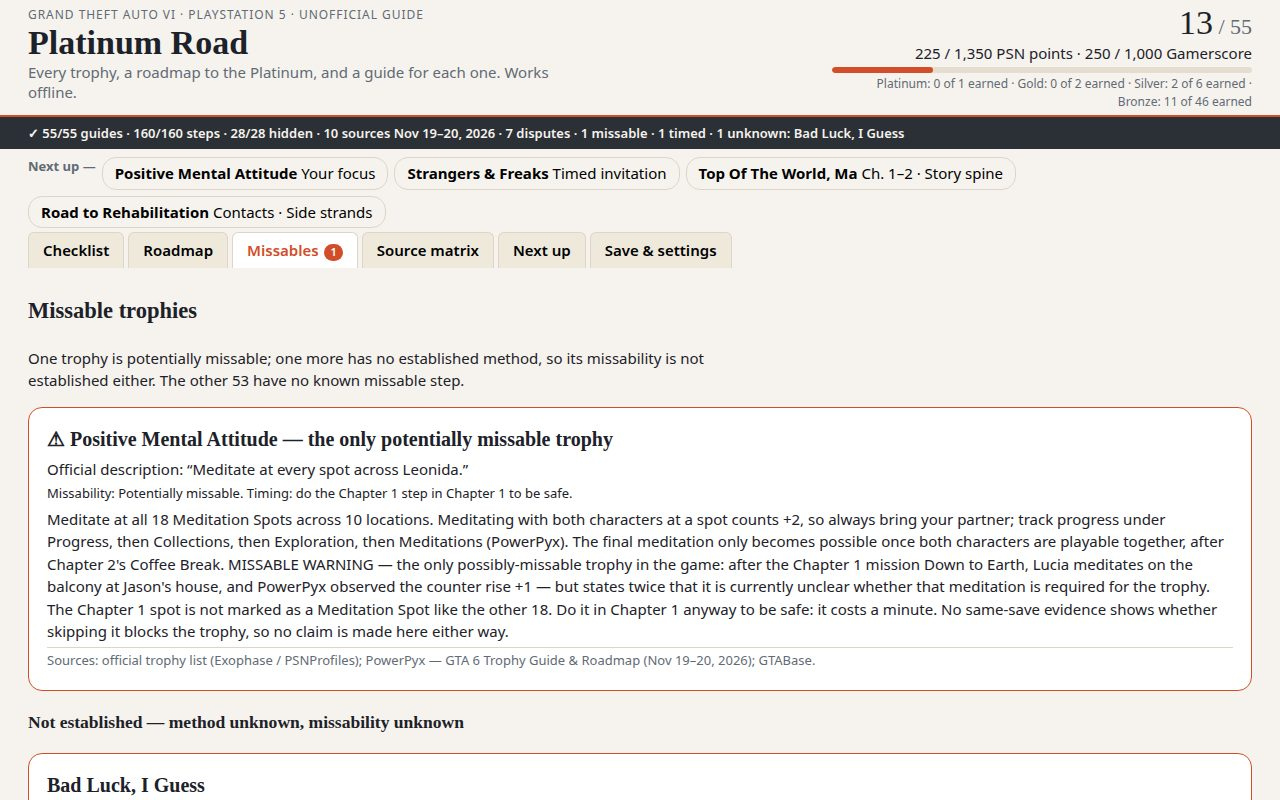
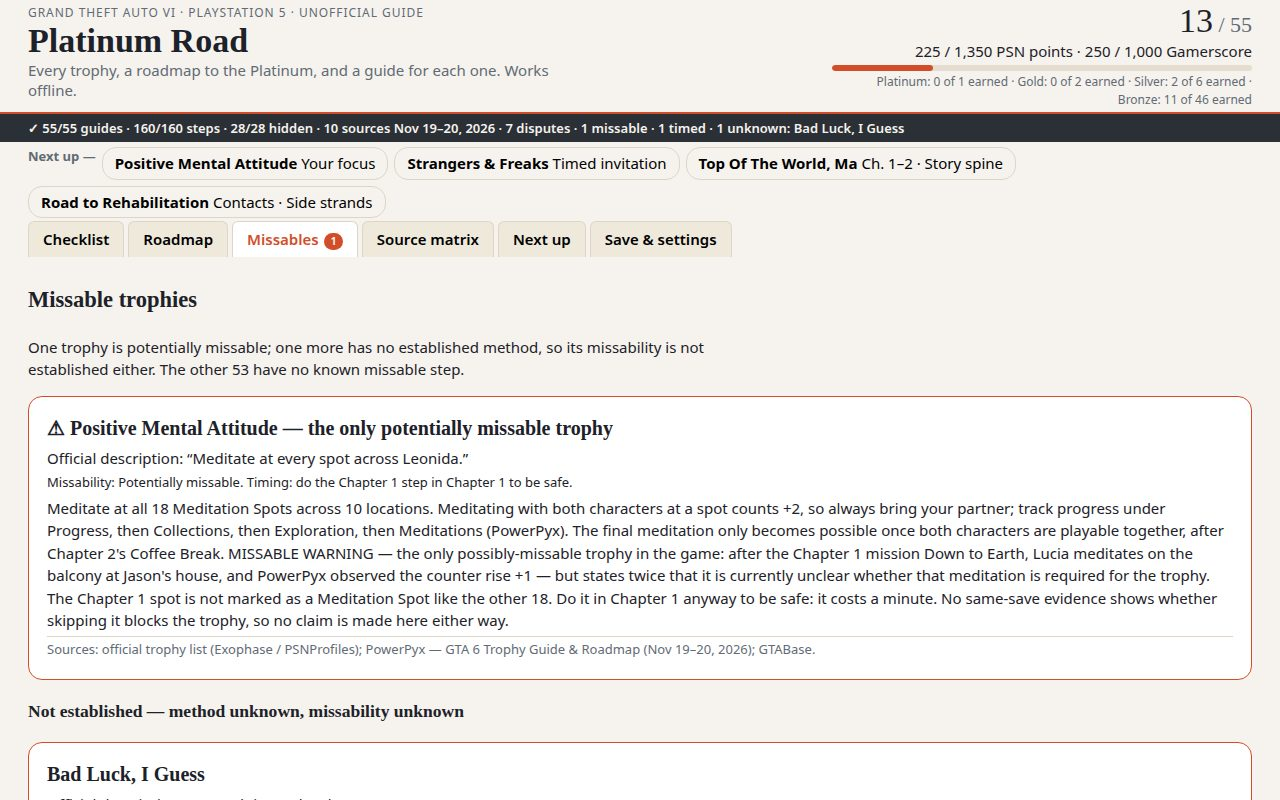
Platinum Road v4 fix: whole SOURCES DIFFER box fits the 800px cover

Changed region(s): [[0.0, 0.0, 1.0, 1.0], [0.4062, 0.2812, 0.5625, 0.3438], [0.25, 0.0625, 0.4375, 0.0938]]

diff --git a/app/style.css b/app/style.css
@@ -3,7 +3,7 @@ body{font-family:system-ui,sans-serif;margin:0;background:#f6f3ee;color:#1d2129;
 h1,h2,h3{font-family:Georgia,serif}
 a{color:#d24e2a}
 button{font:inherit;cursor:pointer}
-.site-header{display:flex;justify-content:space-between;gap:24px;flex-wrap:wrap;padding:6px 28px 4px;border-bottom:2px solid #d24e2a}
+.site-header{display:flex;justify-content:space-between;gap:24px;flex-wrap:wrap;padding:4px 28px 3px;border-bottom:2px solid #d24e2a}
 .eyebrow{margin:0 0 2px;font-size:12px;letter-spacing:.08em;text-transform:uppercase;color:#626a75}
 .site-header h1{margin:0;font-size:34px;line-height:1}
 .subtitle{margin:2px 0 0;max-width:560px;color:#626a75;line-height:1.35}
@@ -14,13 +14,13 @@ button{font:inherit;cursor:pointer}
 .progress-line.small{font-size:12px;color:#626a75}
 .progress-bar{height:6px;background:#e5ded0;border-radius:6px;margin-top:2px;overflow:hidden}
 .progress-fill{height:100%;width:0;background:#d24e2a;border-radius:6px}
-.audit{margin:0;padding:7px 28px 6px;background:#2b2f36;color:#f6f3ee;font-size:13px;font-weight:600;position:sticky;top:0;z-index:5;white-space:nowrap;overflow:hidden;text-overflow:ellipsis}
-.stages{display:flex;gap:6px;flex-wrap:wrap;padding:8px 28px 0}
-.tabs{display:flex;gap:4px;padding:4px 28px 0;flex-wrap:wrap}
+.audit{margin:0;padding:5px 28px 4px;background:#2b2f36;color:#f6f3ee;font-size:13px;font-weight:600;position:sticky;top:0;z-index:5;white-space:nowrap;overflow:hidden;text-overflow:ellipsis}
+.stages{display:flex;gap:6px;flex-wrap:wrap;padding:5px 28px 0}
+.tabs{display:flex;gap:4px;padding:3px 28px 0;flex-wrap:wrap}
 .tab{border:1px solid #ddd5c8;border-bottom:none;background:#efe9dc;padding:6px 14px;border-radius:6px 6px 0 0;font-weight:600}
 .tab.active{background:#fff;color:#d24e2a}
 .tab-badge{display:inline-block;background:#d24e2a;color:#fff;border-radius:10px;font-size:11px;padding:0 6px;margin-left:2px}
-.controls{display:flex;gap:6px;align-items:center;flex-wrap:wrap;padding:6px 28px;background:#fff;border-top:1px solid #ddd5c8;border-bottom:1px solid #ddd5c8}
+.controls{display:flex;gap:6px;align-items:center;flex-wrap:wrap;padding:5px 28px;background:#fff;border-top:1px solid #ddd5c8;border-bottom:1px solid #ddd5c8}
 .search-label input,.grade-label select{font:inherit;padding:4px 8px;border:1px solid #ddd5c8;border-radius:6px;background:#fff}
 .search-label input{width:240px}
 .kind-filters{display:flex;gap:6px;flex-wrap:wrap;align-items:center}
@@ -31,7 +31,7 @@ button{font:inherit;cursor:pointer}
 .control-buttons{display:flex;gap:8px;margin-left:auto}
 .control-buttons button,.import-btn,.save-panel button{border:1px solid #d24e2a;background:#fff;color:#d24e2a;border-radius:6px;padding:4px 12px;font-weight:600}
 .import-btn input{display:none}
-.filter-note{margin:4px 28px 0;color:#626a75;font-size:13px;min-height:18px}
+.filter-note{margin:2px 28px 0;color:#626a75;font-size:13px;min-height:16px}
 main{padding:8px 28px 28px}
 .view.hidden{display:none}
 .checklist-layout{display:grid;grid-template-columns:minmax(0,1fr) 430px;gap:20px;align-items:start}
@@ -60,25 +60,25 @@ main{padding:8px 28px 28px}
 .guide-pane .official-desc{color:#626a75;font-style:italic;margin:0 0 2px}
 .guide-pane h3{margin:2px 0 2px;font-size:15px}
 .guide-pane p{margin:0 0 2px}
-.guide-lead{font-size:17px;font-weight:700;margin:0 0 4px;line-height:1.35}
+.guide-lead{font-size:17px;font-weight:700;margin:0 0 4px;line-height:1.3}
 .chapter-head{margin:14px 0 2px;font-size:17px}
 .sources{font-size:13px;color:#626a75;border-top:1px solid #ddd5c8;padding-top:3px}
 .sources a{color:#626a75}
-.verification-note{font-size:13px;background:#fbe9e2;border-radius:6px;padding:8px 10px}
+.verification-note{font-size:13px;line-height:1.35;background:#fbe9e2;border-radius:6px;padding:5px 10px}
 .verification-note.unconfirmed{background:#fff4d6}
 .empty-pane{color:#626a75}
 .steps{margin:4px 0 2px;padding-left:22px;font-size:14.5px}
 .steps li{margin-bottom:3px}
 .step-src{font-size:12px;font-weight:700;color:#d24e2a;white-space:nowrap}
 .nosteps{font-size:14px;background:#fff4d6;border-radius:6px;padding:8px 10px}
-.dispute{border:1px solid #5b7a99;border-radius:10px;padding:8px 12px;margin:8px 0;background:#eef3fb}
-.dispute h3{margin:0 0 4px;font-size:14px;color:#33506b}
-.dispute p{font-size:13.5px;margin:2px 0}
-.counter-box{border:1px solid #ddd5c8;border-radius:10px;padding:3px 12px;margin:3px 0;background:#fdfcf9}
+.dispute{border:1px solid #5b7a99;border-radius:10px;padding:5px 10px;margin:4px 0;background:#eef3fb}
+.dispute h3{margin:0 0 2px;font-size:14px;color:#33506b}
+.dispute p{font-size:12.5px;line-height:1.4;margin:1px 0}
+.counter-box{border:1px solid #ddd5c8;border-radius:10px;padding:2px 10px;margin:3px 0;background:#fdfcf9}
 .counter-box .counter-line{display:flex;gap:8px;align-items:center;flex-wrap:wrap;font-weight:700;font-size:20px}
 .counter-box button{border:1px solid #d24e2a;background:#fff;color:#d24e2a;border-radius:6px;padding:2px 12px;font-weight:700;font-size:20px}
 .counter-box input{font:inherit;font-weight:700;width:84px;padding:2px 6px;border:1px solid #ddd5c8;border-radius:6px;text-align:right}
-.counter-src{font-size:13px;color:#626a75;margin:2px 0 0}
+.counter-src{font-size:12.5px;line-height:1.35;color:#626a75;margin:1px 0 0}
 .condition-box{border:1px solid #ddd5c8;border-radius:10px;padding:10px 12px;margin:10px 0;background:#fdfcf9}
 .condition-box p{margin:0}
 .note-box textarea{width:100%;min-height:36px;font:inherit;padding:8px;border:1px solid #ddd5c8;border-radius:8px;background:#fff;resize:vertical}

diff --git a/main.ts b/main.ts
@@ -5,7 +5,7 @@
 // screenshots, the first load's files and bytes, and your source), with the vendored make.fun library. Leave
 // vendor/makefun-frontend.ts as it is: the scorer requires dossier.json to be byte for byte what its own copy writes.
 //
-// Platinum Road v4 — presentation redesign on the v3 guide (dossier first-load: 12,451 bytes gzip-9 against the 12,500 cap in v3; v4 keeps the shell lean by restyling, not adding): light judged cover with the Positive Mental Attitude detail filled, a one-line audit, a bold lead + big count stepper + two colour-blocked callouts in the guide pane, the checklist grouped by named chapters with place subtitles, and Next Up as a short horizontal strip. The 55-trophy checklist keeps saved progress, export/import that also carries per-trophy notes, verified progress counters, the next-up focus and the spoiler setting, kind, grade and editorial content-tag filters (Strangers, Money incl. robberies, Combat), a spoiler setting, a seven-chapter roadmap to the Platinum, a missables page with four separate missability wordings, a one-line verification audit, per-trophy step-by-step guides with a source on every step, seven disputes shown both ways, a source matrix with a numbered dated source list, and a next-up planner ordered by roadmap stage and missability. Counters show the trophy's own target with its source and confidence, and single-attempt requirements are shown as conditions, never as ticking numbers. Guide text, steps, stages and sources live in app/data/trophies.json (fetched at runtime, outside the dossier total); the shell renders them.
+// Platinum Road v4 — presentation redesign on the v3 guide (dossier first-load: 12,451 bytes gzip-9 against the 12,500 cap in v3; v4 keeps the shell lean by restyling, not adding): light judged cover with the Positive Mental Attitude detail filled, a one-line audit, a bold lead + big count stepper + two colour-blocked callouts in the guide pane, the checklist grouped by named chapters with place subtitles, and Next Up as a short horizontal strip. A follow-up fix tightened the guide pane (paddings, line-heights, condensed dispute wording) so the whole SOURCES DIFFER box — heading, version A, version B and the verdict — fits inside the 800px cover shot; the dispute's meaning and both versions are unchanged. The 55-trophy checklist keeps saved progress, export/import that also carries per-trophy notes, verified progress counters, the next-up focus and the spoiler setting, kind, grade and editorial content-tag filters (Strangers, Money incl. robberies, Combat), a spoiler setting, a seven-chapter roadmap to the Platinum, a missables page with four separate missability wordings, a one-line verification audit, per-trophy step-by-step guides with a source on every step, seven disputes shown both ways, a source matrix with a numbered dated source list, and a next-up planner ordered by roadmap stage and missability. Counters show the trophy's own target with its source and confidence, and single-attempt requirements are shown as conditions, never as ticking numbers. Guide text, steps, stages and sources live in app/data/trophies.json (fetched at runtime, outside the dossier total); the shell renders them.
 // The screenshots in screenshots/ are real renders of this app in desktop Chrome at 1280x800, taken with 13 of 55 trophies earned, a counter part-way and a saved note on the cover trophy (Positive Mental Attitude, 6/18 meditations).
 //
 // Serve it locally with `node serve.ts`, then open http://localhost:8080.
